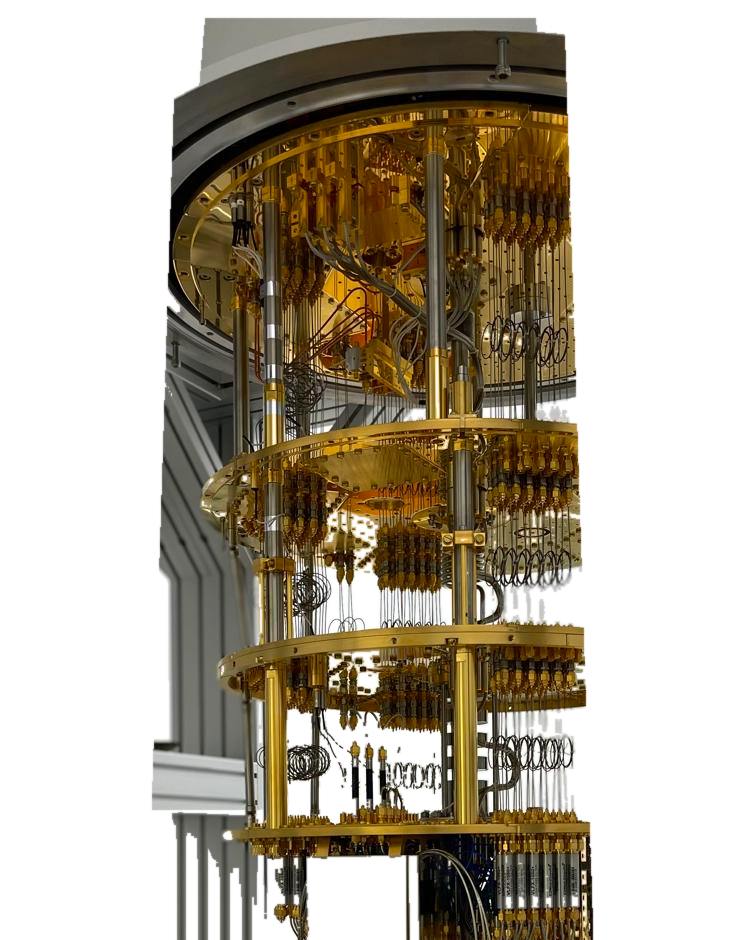
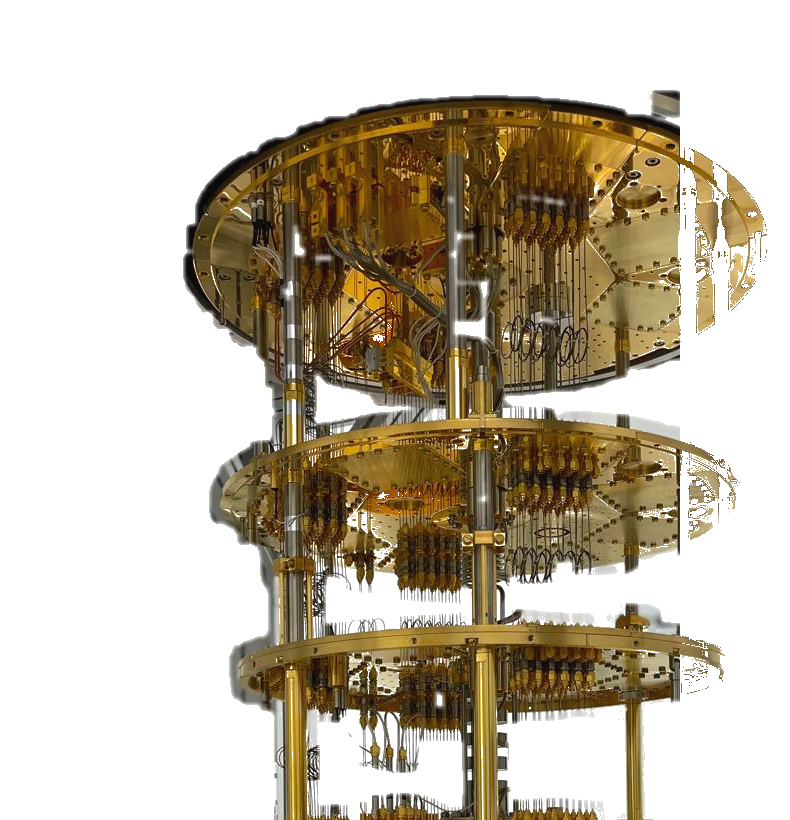
Add files via upload

diff --git a/index.html b/index.html
@@ -3,137 +3,72 @@
 <head>
 <meta charset="utf-8" />
 <meta name="viewport" content="width=device-width,initial-scale=1,viewport-fit=cover" />
-<title>FridgeXR v9</title>
+<title>FridgeXR v10</title>
 <style>
-:root{--gold:#f0c240;--glass:rgba(255,216,90,.12)}
-html,body{margin:0;height:100%;overflow:hidden;background:#000;font-family:-apple-system,BlinkMacSystemFont,Segoe UI,sans-serif;touch-action:none}
-#cam,#erase,#fx{position:fixed;inset:0;width:100%;height:100%;object-fit:cover}
-#erase,#fx{pointer-events:none}
-#fx{opacity:0;transition:opacity .22s ease;filter:drop-shadow(0 0 22px rgba(255,190,35,.25)) saturate(1.08) contrast(1.04)}
-#dream,#real{position:absolute;left:50%;top:50%;transform-origin:50% 4%;height:58vh;width:auto;opacity:0;transition:opacity .25s ease, transform .12s linear;pointer-events:none}
-#dream{opacity:0;mix-blend-mode:multiply;filter:saturate(1.12) contrast(1.08)}
-#real{opacity:0;mix-blend-mode:screen;filter:saturate(1.28) contrast(1.08)}
-body.xr #fx{opacity:1} body.xr #dream{opacity:.92} body.xr #real{opacity:.54}
-#top{position:fixed;top:calc(14px + env(safe-area-inset-top));left:14px;right:14px;display:flex;justify-content:space-between;align-items:center;z-index:5;gap:10px}
-.pill{border:0;border-radius:999px;background:rgba(0,0,0,.58);color:white;padding:12px 16px;font-size:17px;font-weight:800;backdrop-filter:blur(14px);box-shadow:0 4px 18px rgba(0,0,0,.25)}
-#state.locked{color:#63e374} #state.search{color:#ffd84a}
-#bottom{position:fixed;left:0;right:0;bottom:calc(20px + env(safe-area-inset-bottom));display:flex;justify-content:center;gap:14px;z-index:5}
-.btn{border:0;border-radius:999px;padding:18px 34px;font-size:24px;font-weight:900;letter-spacing:.5px;background:linear-gradient(#ffda61,#d49b17);color:#171004;box-shadow:0 14px 34px rgba(0,0,0,.36)}
-.btn.secondary{background:rgba(0,0,0,.55);color:white;font-size:18px;padding:14px 22px;display:none}.xr .secondary{display:block}
-#hint{position:fixed;left:14px;right:14px;bottom:calc(96px + env(safe-area-inset-bottom));color:white;text-align:center;font-weight:650;text-shadow:0 2px 8px #000;z-index:5;opacity:.9;font-size:14px}
-#debug{display:none;position:fixed;left:12px;bottom:120px;background:#0008;color:#fff;z-index:10;padding:8px;border-radius:8px;font-size:12px}
+  :root{
+    --x:50vw; --y:50vh; --w:62vw; --h:66vh; --rot:-1deg; --tilt:0px;
+  }
+  *{box-sizing:border-box;-webkit-tap-highlight-color:transparent}
+  html,body{margin:0;height:100%;overflow:hidden;background:#000;font-family:-apple-system,BlinkMacSystemFont,"Segoe UI",sans-serif;color:white}
+  #cam,#fx,#glass,#erase,#chandelier,#anchor{position:fixed;pointer-events:none}
+  #cam{inset:0;width:100%;height:100%;object-fit:cover;z-index:0}
+  #fx{inset:0;z-index:1;opacity:0;transition:opacity .28s ease;background:radial-gradient(ellipse at var(--x) calc(var(--y) - 2vh),rgba(255,220,90,.10),rgba(255,220,90,.025) 28%,rgba(0,0,0,0) 62%)}
+  #erase{z-index:2;left:calc(var(--x) - var(--w)/2);top:calc(var(--y) - var(--h)/2);width:var(--w);height:var(--h);border-radius:38% 38% 26% 26%/18% 18% 12% 12%;opacity:0;transition:opacity .28s ease;overflow:hidden;transform:rotate(var(--rot));backdrop-filter:blur(16px) saturate(.45) brightness(1.18);background:linear-gradient(90deg,rgba(245,245,238,.42),rgba(255,255,247,.24),rgba(230,230,220,.38));box-shadow:inset 0 0 55px rgba(255,255,255,.16),0 0 45px rgba(255,210,80,.18)}
+  #erase:before{content:"";position:absolute;inset:-8%;background:linear-gradient(115deg,rgba(255,255,255,.0) 0 25%,rgba(255,255,255,.26) 42%,rgba(255,255,255,.04) 50%,rgba(255,255,255,.0) 68%);mix-blend-mode:screen}
+  #glass{z-index:4;left:calc(var(--x) - var(--w)/2);top:calc(var(--y) - var(--h)/2);width:var(--w);height:var(--h);border-radius:38% 38% 26% 26%/18% 18% 12% 12%;opacity:0;transition:opacity .28s ease;transform:rotate(var(--rot));border:1px solid rgba(255,224,115,.28);background:linear-gradient(110deg,rgba(255,255,255,.0),rgba(255,255,255,.22) 43%,rgba(255,255,255,.02) 50%,rgba(255,255,255,.0));box-shadow:inset 0 0 28px rgba(255,220,90,.12)}
+  #anchor{z-index:5;left:calc(var(--x) - var(--w)*.29);top:calc(var(--y) - var(--h)*.48);width:calc(var(--w)*.58);height:3px;opacity:0;transition:opacity .28s ease;background:linear-gradient(90deg,rgba(255,200,60,0),rgba(255,215,75,.75),rgba(255,200,60,0));box-shadow:0 0 12px rgba(255,220,90,.5)}
+  #chandelier{z-index:3;left:var(--x);top:calc(var(--y) + var(--tilt));width:calc(var(--w)*.93);max-height:calc(var(--h)*1.02);object-fit:contain;transform:translate(-50%,-49%) rotate(var(--rot));opacity:0;transition:opacity .28s ease,filter .28s ease;filter:drop-shadow(0 12px 28px rgba(0,0,0,.36)) drop-shadow(0 0 13px rgba(255,205,50,.28)) saturate(1.14) contrast(1.04)}
+  body.xr #fx,body.xr #erase,body.xr #glass,body.xr #chandelier,body.xr #anchor{opacity:1}
+  body.xr #chandelier{opacity:.94}
+  #top{position:fixed;z-index:10;top:calc(12px + env(safe-area-inset-top));left:14px;right:14px;display:flex;align-items:center;justify-content:space-between;gap:10px;pointer-events:none}
+  .pill{background:rgba(0,0,0,.48);border:1px solid rgba(255,255,255,.15);backdrop-filter:blur(14px);border-radius:999px;padding:10px 14px;font-weight:800;font-size:16px;letter-spacing:.3px;box-shadow:0 8px 24px rgba(0,0,0,.25)}
+  body.xr .pill:first-child{color:#ffd84c;border-color:rgba(255,216,76,.35)}
+  #buttons{position:fixed;z-index:12;left:0;right:0;bottom:calc(22px + env(safe-area-inset-bottom));display:flex;justify-content:center;gap:14px;align-items:center}
+  button{border:0;border-radius:999px;padding:19px 38px;font-size:22px;font-weight:900;letter-spacing:.4px;color:#14110b;background:linear-gradient(#ffe072,#d49b18);box-shadow:0 10px 32px rgba(0,0,0,.45)}
+  #live{background:rgba(0,0,0,.52);color:white;padding:18px 30px}
+  #hint{position:fixed;z-index:11;left:50%;transform:translateX(-50%);bottom:calc(96px + env(safe-area-inset-bottom));width:max-content;max-width:88vw;text-align:center;background:rgba(0,0,0,.42);border-radius:999px;padding:9px 14px;font-size:14px;opacity:.9;transition:opacity .25s}
+  body.xr #hint{opacity:.72}
+  #miniTune{position:fixed;z-index:13;right:12px;top:calc(62px + env(safe-area-inset-top));display:none;gap:6px;flex-direction:column}
+  body.xr #miniTune{display:flex}
+  .small{font-size:13px;padding:9px 11px;background:rgba(0,0,0,.48);color:white;border:1px solid rgba(255,255,255,.15);box-shadow:none}
 </style>
 </head>
 <body>
 <video id="cam" autoplay playsinline muted></video>
-<canvas id="erase"></canvas>
-<div id="fx">
-  <img id="dream" src="assets/dream_chandelier_clean.png" alt="golden chandelier">
-  <img id="real" src="assets/user_chandelier_clean.png" alt="user fridge details">
+<div id="fx"></div>
+<div id="erase"></div>
+<img id="chandelier" src="assets/chandelier.png" alt="golden dilution refrigerator chandelier" />
+<div id="glass"></div>
+<div id="anchor"></div>
+<div id="top"><div class="pill" id="status">LIVE</div><div class="pill">point at closed fridge</div></div>
+<div id="hint">XRAY turns on immediately — no lock step</div>
+<div id="miniTune">
+  <button class="small" id="up">↑</button><button class="small" id="down">↓</button><button class="small" id="left">←</button><button class="small" id="right">→</button><button class="small" id="bigger">＋</button><button class="small" id="smaller">－</button>
 </div>
-<div id="top"><div id="state" class="pill">LIVE</div><button id="relock" class="pill">AUTO LOCK</button></div>
-<div id="hint">XRAY identifies the silver can and replaces it with a wall-colored strip plus the golden chandelier.</div>
-<div id="bottom"><button id="live" class="btn secondary">LIVE</button><button id="xray" class="btn">XRAY</button></div>
-<div id="debug"></div>
+<div id="buttons"><button id="live">LIVE</button><button id="xray">XRAY</button></div>
 <script>
-const cam=document.getElementById('cam'), erase=document.getElementById('erase'), ectx=erase.getContext('2d');
-const dream=document.getElementById('dream'), real=document.getElementById('real'), state=document.getElementById('state');
-const debug=document.getElementById('debug');
-let xr=false, locked=false, box=null, targetBox=null, lastDetect=0;
-let orient={x:0,y:0};
-const scan=document.createElement('canvas'), sctx=scan.getContext('2d',{willReadFrequently:true});
-async function start(){
- try{cam.srcObject=await navigator.mediaDevices.getUserMedia({video:{facingMode:{ideal:'environment'},width:{ideal:1920},height:{ideal:1080}},audio:false});}
- catch(e){alert('Camera needs HTTPS/GitHub Pages and permission. '+e.message)}
-}
-start();
-function fitCanvas(){erase.width=innerWidth*devicePixelRatio; erase.height=innerHeight*devicePixelRatio; erase.style.width=innerWidth+'px'; erase.style.height=innerHeight+'px'; ectx.setTransform(devicePixelRatio,0,0,devicePixelRatio,0,0)}
-addEventListener('resize',fitCanvas); fitCanvas();
-function satv(r,g,b){const mx=Math.max(r,g,b), mn=Math.min(r,g,b); return [mx-mn,mx];}
-function detectCan(){
- if(cam.videoWidth<10) return null;
- const W=132,H=220; scan.width=W; scan.height=H; sctx.drawImage(cam,0,0,W,H);
- const img=sctx.getImageData(0,0,W,H), d=img.data;
- const mask=new Uint8Array(W*H);
- for(let y=Math.floor(H*.12); y<H*.86; y++) for(let x=Math.floor(W*.16); x<W*.88; x++){
-   const i=(y*W+x)*4, r=d[i],g=d[i+1],b=d[i+2]; const sv=satv(r,g,b), sat=sv[0], v=sv[1];
-   // silver/white OVC: low saturation, not pure wall white, with vertical grey shadows
-   const central=1-Math.min(1,Math.abs(x/W-.52)/.45);
-   if(sat<42 && v>72 && v<238 && central>.15) mask[y*W+x]=1;
- }
- const seen=new Uint8Array(W*H); let best=null;
- const qx=[],qy=[];
- for(let yy=0; yy<H; yy++) for(let xx=0; xx<W; xx++){
-  const p=yy*W+xx; if(!mask[p]||seen[p]) continue;
-  let minx=xx,maxx=xx,miny=yy,maxy=yy,area=0; qx.length=0; qy.length=0; qx.push(xx); qy.push(yy); seen[p]=1;
-  for(let qi=0; qi<qx.length; qi++){
-   const x=qx[qi], y=qy[qi]; area++; if(x<minx)minx=x;if(x>maxx)maxx=x;if(y<miny)miny=y;if(y>maxy)maxy=y;
-   for(const [nx,ny] of [[x+1,y],[x-1,y],[x,y+1],[x,y-1]]) if(nx>=0&&nx<W&&ny>=0&&ny<H){const np=ny*W+nx;if(mask[np]&&!seen[np]){seen[np]=1;qx.push(nx);qy.push(ny)}}
-  }
-  const bw=maxx-minx+1,bh=maxy-miny+1,cx=(minx+maxx)/2/W,cy=(miny+maxy)/2/H;
-  const aspect=bw/bh; const centerScore=1-Math.min(1,Math.abs(cx-.52)/.42); const sizeScore=area/(W*H);
-  const vertical = bh/H;
-  let score=sizeScore*centerScore*(vertical>.12?1:0.25)*(aspect>.18&&aspect<2.2?1:0.25);
-  // prefer components under the upper support beam, where closed can lives
-  if(cy>.22 && cy<.72) score*=1.25;
-  if(!best||score>best.score) best={minx,maxx,miny,maxy,area,score,cx,cy,bw,bh};
- }
- if(!best||best.score<.002) return null;
- let b={x:best.minx/W*innerWidth,y:best.miny/H*innerHeight,w:best.bw/W*innerWidth,h:best.bh/H*innerHeight,score:best.score};
- // expand to full can volume and make it cylindrical/fridge-shaped
- b.x-=b.w*.18; b.w*=1.36; b.y-=b.h*.08; b.h*=1.18;
- return b;
-}
-function smoothBox(nb){
- if(!nb) return;
- if(!box) box=nb; else {const a=.22; for(const k of ['x','y','w','h']) box[k]=box[k]*(1-a)+nb[k]*a; box.score=nb.score}
- locked=true;
-}
-function sampleWallColor(b){
- if(cam.videoWidth<10) return [230,230,225];
- const W=64,H=96; scan.width=W; scan.height=H; sctx.drawImage(cam,0,0,W,H); const img=sctx.getImageData(0,0,W,H).data;
- const sx=Math.min(W-2,Math.max(1,Math.floor((b.x+b.w*1.25)/innerWidth*W))); const x0=Math.max(0,sx-3), x1=Math.min(W,sx+8);
- const y0=Math.max(0,Math.floor(b.y/innerHeight*H)), y1=Math.min(H,Math.floor((b.y+b.h)/innerHeight*H));
- let r=0,g=0,bl=0,n=0;
- for(let y=y0;y<y1;y++)for(let x=x0;x<x1;x++){const i=(y*W+x)*4; const R=img[i],G=img[i+1],B=img[i+2]; const [s,v]=satv(R,G,B); if(v>90&&v<250&&s<70){r+=R;g+=G;bl+=B;n++}}
- if(n<8) return [224,224,218]; return [r/n,g/n,bl/n];
-}
-function roundRect(ctx,x,y,w,h,r){ctx.beginPath();ctx.moveTo(x+r,y);ctx.arcTo(x+w,y,x+w,y+h,r);ctx.arcTo(x+w,y+h,x,y+h,r);ctx.arcTo(x,y+h,x,y,r);ctx.arcTo(x,y,x+w,y,r);ctx.closePath()}
-function renderErase(){
- ectx.clearRect(0,0,innerWidth,innerHeight); if(!xr||!box)return;
- const b=box, c=sampleWallColor(b); const grad=ectx.createLinearGradient(b.x,b.y,b.x+b.w,b.y+b.h);
- grad.addColorStop(0,`rgba(${c[0]-16},${c[1]-16},${c[2]-14},.70)`); grad.addColorStop(.5,`rgba(${c[0]+8},${c[1]+8},${c[2]+8},.83)`); grad.addColorStop(1,`rgba(${c[0]-12},${c[1]-12},${c[2]-10},.68)`);
- // Soft cylinder/OVC disappearance shape. It covers the can but lets frame/wall light remain.
- ectx.save(); ectx.filter='blur(1.4px)'; roundRect(ectx,b.x,b.y,b.w,b.h,Math.min(b.w*.28,42)); ectx.fillStyle=grad; ectx.fill(); ectx.restore();
- // subtle vertical wall seams / floor reflection hints, not a black portal
- ectx.save(); ectx.globalAlpha=.16; ectx.strokeStyle='rgba(255,255,255,.55)'; ectx.lineWidth=1; ectx.beginPath(); ectx.moveTo(b.x+b.w*.52,b.y+8); ectx.lineTo(b.x+b.w*.52,b.y+b.h-8); ectx.stroke(); ectx.restore();
-}
-function placeChandelier(){
- if(!xr||!box){dream.style.opacity=0; real.style.opacity=0; return}
- const b=box;
- // Top attachment: hang from the upper edge of the detected closed can / cold plate, not the center of the room.
- const cx=b.x+b.w*.50 + orient.x*2.2; const top=b.y-b.h*.20 + orient.y*.9;
- const h=Math.min(innerHeight*.76, Math.max(innerHeight*.42,b.h*1.62));
- const tilt=orient.x*.15;
- const perspectiveSkew=(b.x+b.w/2-innerWidth/2)/innerWidth*8;
- const transform=`translate(-50%,0) translate(${cx}px,${top}px) rotate(${tilt+perspectiveSkew}deg) scaleX(${1+perspectiveSkew*.01})`;
- [dream,real].forEach(el=>{el.style.top='0px'; el.style.left='0px'; el.style.height=h+'px'; el.style.transform=transform;});
-}
-function loop(t){
- if(xr && t-lastDetect>450){const nb=detectCan(); if(nb) smoothBox(nb); lastDetect=t;}
- if(xr){state.textContent=locked?'XRAY LOCKED':'SEARCHING FOR CAN'; state.className='pill '+(locked?'locked':'search')} else {state.textContent='LIVE'; state.className='pill'}
- renderErase(); placeChandelier(); requestAnimationFrame(loop);
-}
-requestAnimationFrame(loop);
-addEventListener('deviceorientation',e=>{orient.x=(e.gamma||0); orient.y=(e.beta||0)-45;});
-addEventListener('pointerdown',e=>{
- if(!xr) return;
- // manual correction: tap the can center; useful until automatic detector is perfect.
- const w=innerWidth*.46,h=innerHeight*.42; box={x:e.clientX-w/2,y:e.clientY-h*.18,w,h,score:1}; locked=true;
-});
-document.getElementById('xray').onclick=()=>{xr=true;document.body.classList.add('xr');locked=false;box=null;};
-document.getElementById('live').onclick=()=>{xr=false;document.body.classList.remove('xr');locked=false;box=null;ectx.clearRect(0,0,innerWidth,innerHeight);};
-document.getElementById('relock').onclick=()=>{box=null;locked=false;lastDetect=0;};
+const cam=document.getElementById('cam');
+const statusEl=document.getElementById('status');
+const root=document.documentElement;
+const img=document.getElementById('chandelier');
+let on=false;
+let state=JSON.parse(localStorage.fridgeXRv10||'{}');
+state={x:state.x??50,y:state.y??49,w:state.w??58,h:state.h??70,rot:state.rot??-1,src:state.src??'assets/chandelier.png'};
+function save(){localStorage.fridgeXRv10=JSON.stringify(state)}
+function apply(){root.style.setProperty('--x',state.x+'vw');root.style.setProperty('--y',state.y+'vh');root.style.setProperty('--w',state.w+'vw');root.style.setProperty('--h',state.h+'vh');root.style.setProperty('--rot',state.rot+'deg');img.src=state.src;save()}
+async function start(){try{const s=await navigator.mediaDevices.getUserMedia({video:{facingMode:{ideal:'environment'},width:{ideal:1920},height:{ideal:1080}},audio:false});cam.srcObject=s}catch(e){alert('Camera needs HTTPS. Open this from GitHub Pages. '+e.message)}}
+function setXR(v){on=v;document.body.classList.toggle('xr',on);statusEl.textContent=on?'XRAY ON':'LIVE';}
+document.getElementById('xray').onclick=()=>setXR(true);
+document.getElementById('live').onclick=()=>setXR(false);
+// Tapping the fridge area recenters the AR without any lock workflow.
+window.addEventListener('click',e=>{if(!on||e.target.tagName==='BUTTON')return;state.x=e.clientX/window.innerWidth*100;state.y=e.clientY/window.innerHeight*100+4;apply()});
+// Very small phone-tilt parallax. It moves the chandelier inside the erased can, not the whole portal.
+window.addEventListener('deviceorientation',e=>{if(!on)return;const g=e.gamma||0,b=e.beta||0;root.style.setProperty('--tilt',(Math.max(-14,Math.min(14,b*.18)))+'px');img.style.transform=`translate(calc(-50% + ${g*.45}px),calc(-49% + ${b*.16}px)) rotate(${state.rot+g*.035}deg)`});
+function tune(dx,dy,dw){state.x+=dx;state.y+=dy;state.w=Math.max(35,Math.min(82,state.w+dw));state.h=state.w*1.2;apply()}
+up.onclick=()=>tune(0,-1,0);down.onclick=()=>tune(0,1,0);left.onclick=()=>tune(-1,0,0);right.onclick=()=>tune(1,0,0);bigger.onclick=()=>tune(0,0,2);smaller.onclick=()=>tune(0,0,-2);
+// If the asset somehow fails, switch to the user cutout so XRAY never appears blank.
+img.onerror=()=>{if(state.src!=='assets/user_chandelier.png'){state.src='assets/user_chandelier.png';apply();}}
+apply();start();
 </script>
 </body>
 </html>